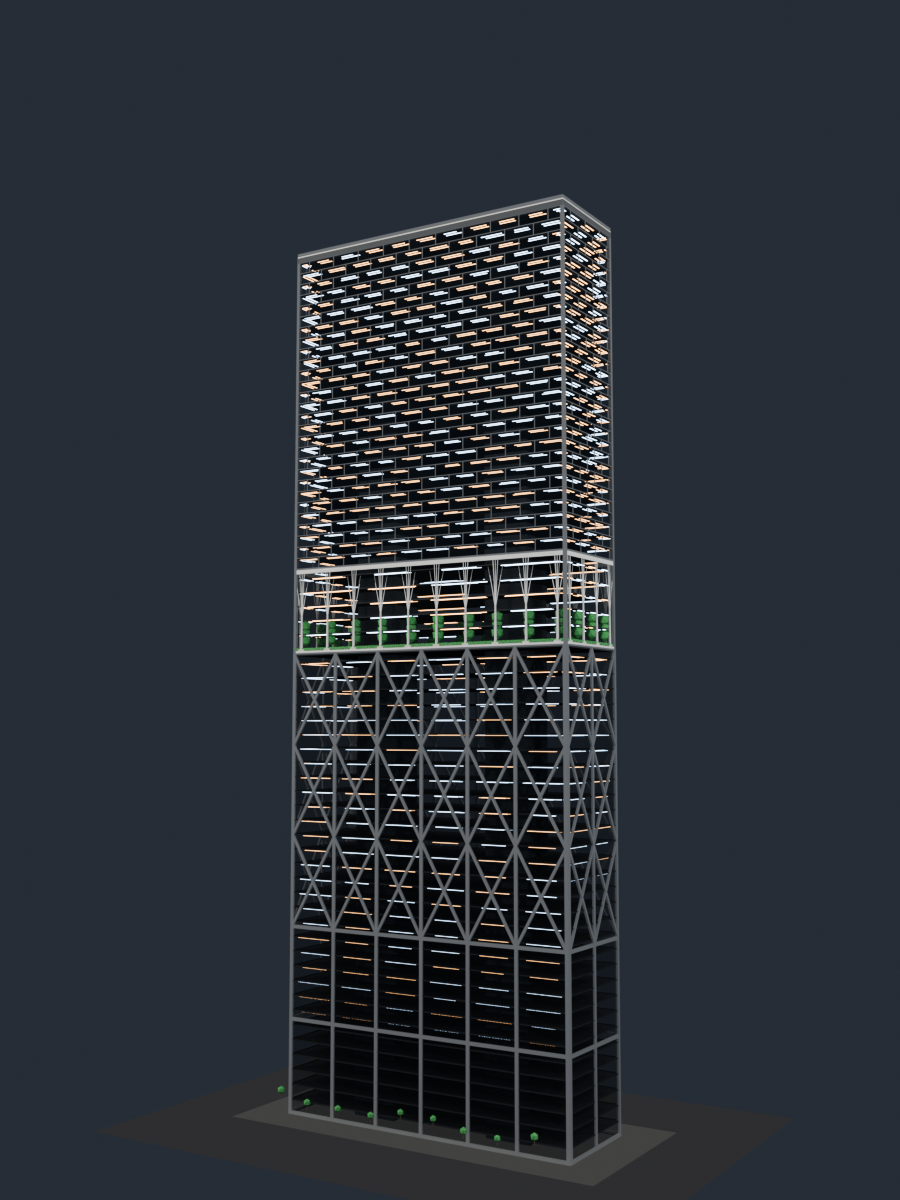
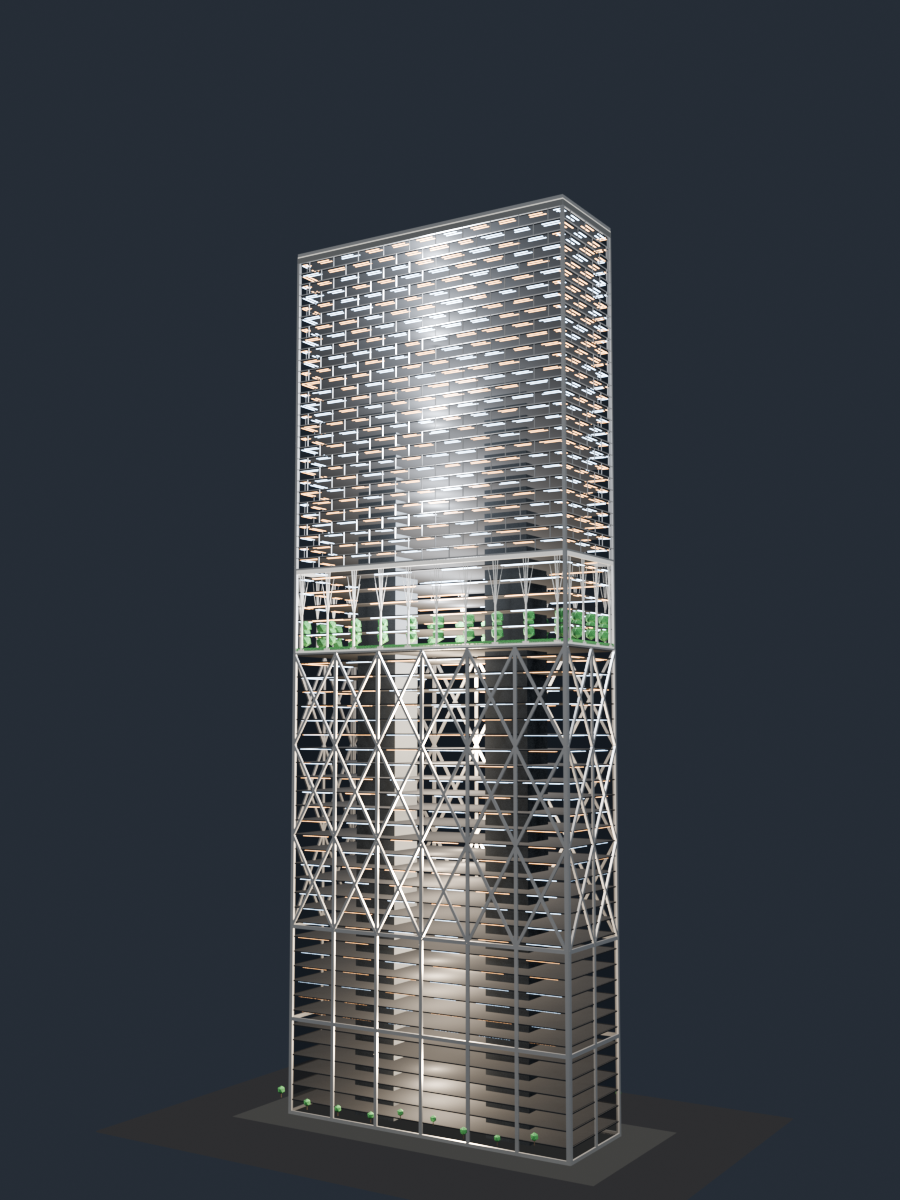
feat: simulate night lighting in Stack 3
A handful of point lights every few floors stand in for the thousands of
fixtures the building would really have, north and south on each level. Floor
plates no longer take light or cast shadow, so the glow passes up and down the
shaft instead of stopping at one plate; the interior lights cast no shadow of
their own, which also keeps EEVEE inside its shadow budget.

Changed region(s): [[0.3111, 0.1542, 0.7156, 0.9558]]

diff --git a/build_stack3.py b/build_stack3.py
@@ -389,14 +389,22 @@ def build_floors(mats, cols):
     for z in floor_levels():
         if z <= ROOF - 0.6:
             p.box((0, 0, z - 0.175), (WIDTH - 1.4, DEPTH - 1.4, 0.35))
-    p.finish()
+    floors = p.finish()
+    if floors is not None:
+        # Floors neither take light nor block it, so the interior lights carry
+        # up and down the whole shaft instead of pooling on one plate.
+        floors.visible_shadow = False
+        floors.visible_diffuse = False
 
     # Transfer slabs on the band lines read through the glazed bands as the
     # same thick floor the truss-less bands sit on.
     p = Part("Structure_Transfer_Slabs", mats["slab_dark"], cols["Structure"])
     for name, z0, z1 in BANDS[1:-1]:
         p.box((0, 0, z0 - 0.35), (WIDTH - 0.8, DEPTH - 0.8, 0.7))
-    p.finish()
+    transfers = p.finish()
+    if transfers is not None:
+        transfers.visible_shadow = False
+        transfers.visible_diffuse = False
 
     p = Part("Structure_Cores", mats["core"], cols["Structure"])
     for sx in (-1, 1):
@@ -901,6 +909,21 @@ def setup_scene(args):
         ("Low_Fill", (-430, -150, 45), (0, 0, 95), 90, 1000000,
          (1.00, 0.95, 0.88)),
     )
+    # Simulated interior lighting: a handful of point lights stand in for the
+    # thousands of fixtures, one every few floors, so the tower reads as lit at
+    # night. The floor plates do not block them.
+    for z in (20.0, 55.0, 90.0, 125.0, 150.0, 173.0,
+              205.0, 235.0, 265.0, 292.0):
+        for side, y in (("S", -9.0), ("N", 9.0)):
+            data = bpy.data.lights.new(f"Stack3_Interior_{int(z)}_{side}", "POINT")
+            data.energy = 110000.0
+            data.shadow_soft_size = 7.0
+            data.use_shadow = False       # glow only; keeps EEVEE's shadow budget
+            data.color = (1.0, 0.82, 0.62) if z < 158.0 else (0.9, 0.94, 1.0)
+            obj = bpy.data.objects.new(f"Stack3_Interior_{int(z)}_{side}", data)
+            obj.location = (0.0, y, z)
+            scene.collection.objects.link(obj)
+
     for name, loc, target, size, energy, color in studio:
         data = bpy.data.lights.new(f"Stack3_{name}", "AREA")
         data.shape = "DISK"

diff --git a/README.md b/README.md
@@ -260,6 +260,10 @@ module and run 28 floors.
   there are no punched openings. Three near-identical glass tints and a lit
   ceiling in every bay keep it reading as apartments at dusk - no wall behind the
   glass. A two-metre metal fascia closes the grid at the roof.
+- **Night lighting.** Six studio area lights outside, plus simulated interior
+  point lights every few floors (north and south) standing in for the thousands
+  of fixtures. Floor plates neither take light nor cast shadow, so the interior
+  glow carries up and down the shaft instead of pooling on one plate.
 - **Flat roof, 302 m.** The tower stops at the apartment band: one deck slab and
   a 1.2 m parapet, nothing above it.
 
